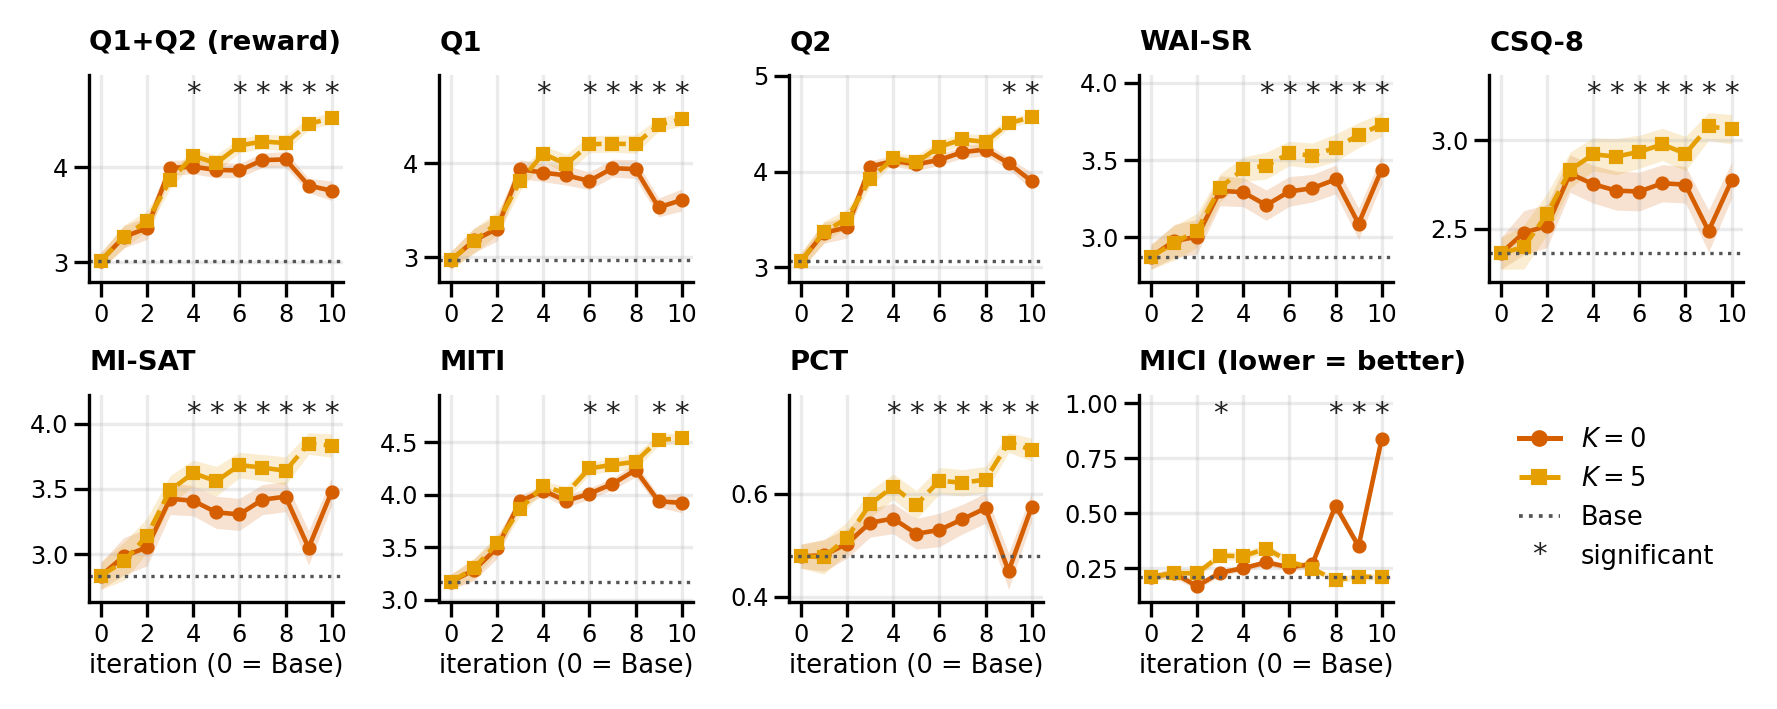
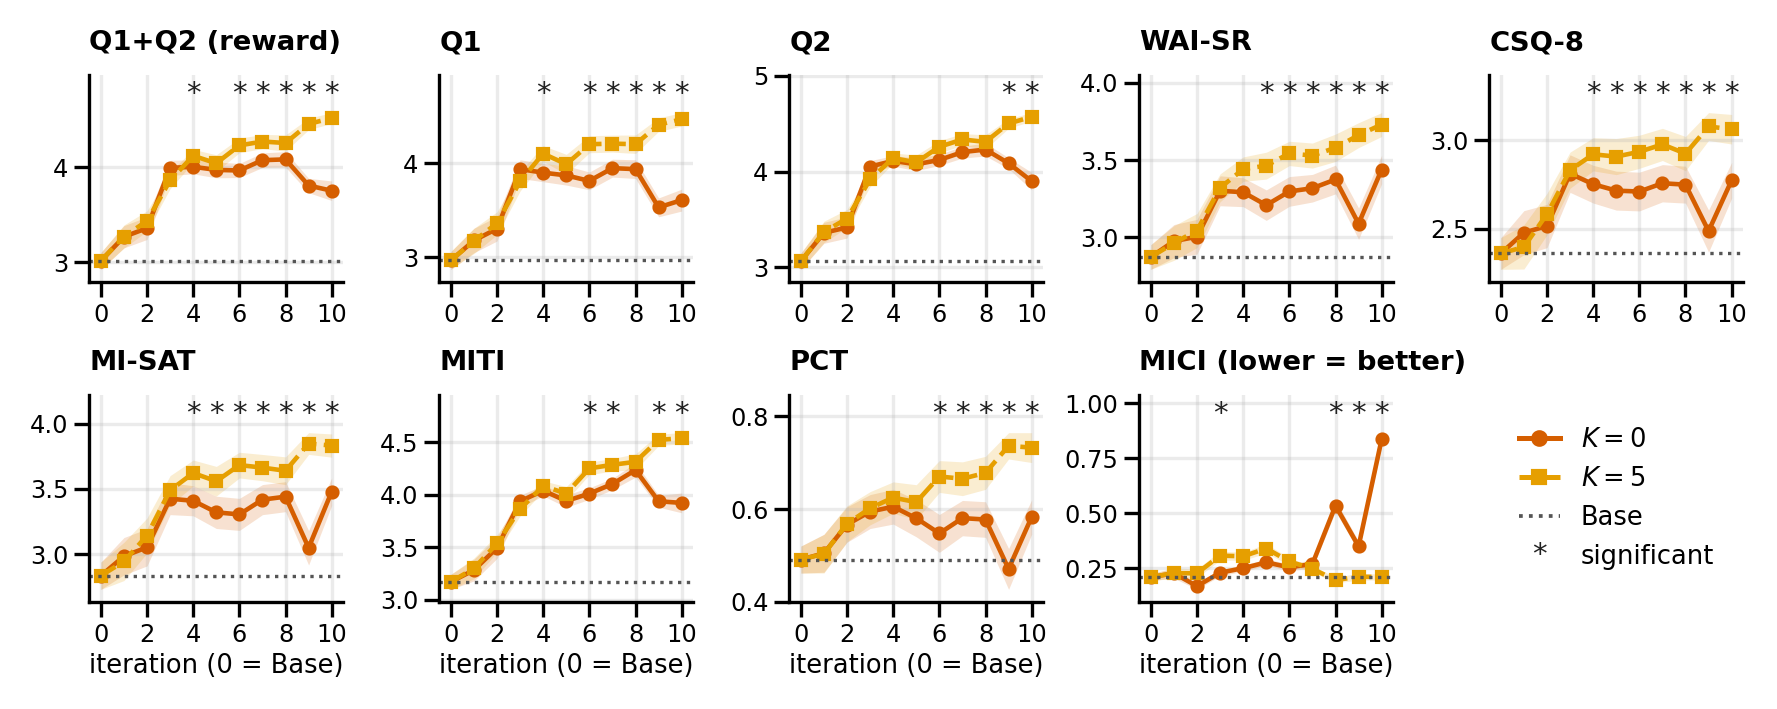
P1 §4: PCT rebuilt from the utterance coder — Table 1 row (0.49/0.58/0.73, +0.15, dz +0.51; held out 0.50/0.58/0.74, +0.16, +0.64), Figure 2 (PCT stars 6-10), Base draws at most |dz| 0.17

diff --git a/papers/2026_grpo_lookahead_mi/sections/05_reward.tex b/papers/2026_grpo_lookahead_mi/sections/05_reward.tex
@@ -30,7 +30,7 @@ WAI-SR          & $2.87$ & $3.44$ & $3.73$ & $+0.29$ & $+0.51$ & $2.19$ & $2.67$
 CSQ-8           & $2.36$ & $2.77$ & $3.06$ & $+0.29$ & $+0.48$ & $2.09$ & $2.48$ & $2.93$ & $+0.45$ & $+0.68$\\
 MI-SAT          & $2.84$ & $3.48$ & $3.83$ & $+0.35$ & $+0.53$ & $2.48$ & $2.82$ & $3.33$ & $+0.50$ & $+0.83$\\
 MITI            & $3.17$ & $3.92$ & $4.54$ & $+0.61$ & $+0.74$ & $1.86$ & $2.10$ & $2.38$ & $+0.28$ & $+0.50$\\
-PCT (share)     & $0.48$ & $0.57$ & $0.69$ & $+0.11$ & $+0.52$ & $0.52$ & $0.61$ & $0.73$ & $+0.11$ & $+0.56$\\
+PCT (share)     & $0.49$ & $0.58$ & $0.73$ & $+0.15$ & $+0.51$ & $0.50$ & $0.58$ & $0.74$ & $+0.16$ & $+0.64$\\
 MICI (per therapist turn, $\downarrow$) & $0.21$ & $0.84$ & $0.21$ & $-0.63$ & $-1.86$ & $0.36$ & $1.05$ & $0.63$ & $-0.42$ & $-1.57$\\
 \bottomrule
 \end{tabular}
@@ -85,7 +85,7 @@ conversations, so we drew the final $\Kf$ policy again (96 fresh conversations f
 adapter, personas and decoding, scored by both judges): the two draws differ by at most
 $|\dz|\,0.17$ across the nine rows and both judges, none significantly, and with the second draw
 the \QQ\ gap is $\dz\,0.92$ against $0.91$ (held out: $0.95$ against $1.03$). The Base's two
-draws, compared the same way, differ by at most $|\dz|\,0.15$, none significantly
+draws, compared the same way, differ by at most $|\dz|\,0.17$, none significantly
 (Appendix~\ref{app:tables}).
 % \dnotedone{rephrased in plain words: same model, new conversations}{[evaluation noise, not training variance -?]}
 This measures how
